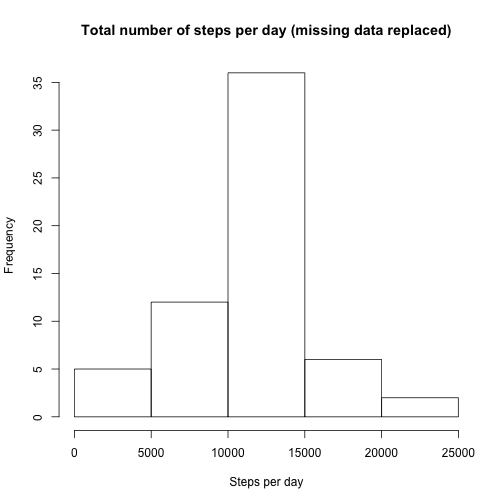
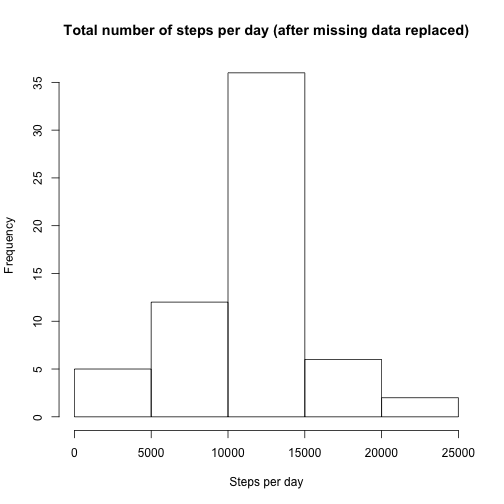
Final run of knitr to create generated files

Changed region(s): [[0.119, 0.0298, 0.9226, 0.0893]]

diff --git a/PA1_template.html b/PA1_template.html
@@ -238,9 +238,9 @@ head(df)
 </ol>
 </blockquote>
 
-<p>Transform the date column to a proper Date data type.</p>
+<pre><code class="r"># Transform the date column to a proper Date data type.
 
-<pre><code class="r">df$date &lt;- as.Date(df$date, format = &quot;%Y-%m-%d&quot;)
+df$date &lt;- as.Date(df$date, format = &quot;%Y-%m-%d&quot;)
 
 # aggregate the total steps per day
 steps_per_day &lt;- aggregate(df$steps, by = list(df$date), sum)
@@ -304,7 +304,7 @@ head(mean_steps)
 </ol>
 </blockquote>
 
-<p><em>Histrogram of the total number of steps taken each day</em></p>
+<p><em>Histogram of the total number of steps taken each day</em></p>
 
 <pre><code class="r">hist(steps_per_day$steps, main = &quot;Total number of steps per day&quot;, xlab = &quot;Steps per day&quot;)
 </code></pre>
@@ -336,7 +336,7 @@ mean_median
 </ol>
 </blockquote>
 
-<p><em>Time series plot of the 5-minute intervals and the average number of steps taken, averaged against all days.</em></p>
+<p><em>Time series plot of the 5-minute intervals and the average number of steps taken, averaged across all days.</em></p>
 
 <pre><code class="r">plot(mean_steps$interval, mean_steps$mean_steps, type = &quot;n&quot;,
      main = &quot;Average steps taken per 5-minute interval&quot;,
@@ -368,7 +368,7 @@ lines(mean_steps$interval, mean_steps$mean_steps, type = &quot;l&quot;)
 </ol>
 </blockquote>
 
-<p><em>The total number of missing values in the dataset:</em></p>
+<p><em>The total number of rows with missing values in the dataset:</em></p>
 
 <pre><code class="r">sum(is.na(df$steps))
 </code></pre>
@@ -382,10 +382,11 @@ lines(mean_steps$interval, mean_steps$mean_steps, type = &quot;l&quot;)
 </ol>
 </blockquote>
 
-<p><em>Using the mean for the interval, fill in the missing values.</em></p>
+<p><em>We will fill in the missing values using the mean for the interval.</em></p>
 
 <pre><code class="r"># merge the original dataset with the mean steps per interval set
 fixed_data &lt;- merge(df, mean_steps, by = &quot;interval&quot;, sort = FALSE)
+
 # now plug in the mean_steps value for the missing NA values
 fixed_data$steps[is.na(fixed_data$steps)] &lt;- fixed_data$mean_steps[is.na(fixed_data$steps)]
 head(fixed_data)
@@ -469,11 +470,11 @@ names(steps_per_day_new)[2] &lt;- &quot;steps&quot;
 
 <p><em>Histrogram of the total number of steps taken each day</em></p>
 
-<pre><code class="r">hist(steps_per_day_new$steps, main = &quot;Total number of steps per day (missing data replaced)&quot;, 
+<pre><code class="r">hist(steps_per_day_new$steps, main = &quot;Total number of steps per day (after missing data replaced)&quot;, 
      xlab = &quot;Steps per day&quot;)
 </code></pre>
 
[2 lines of base64/hex data omitted]
 
 <p>Comparing the fixed data set with the old data set.</p>
 
@@ -517,8 +518,8 @@ mean_median
 ##  10766  10765
 </code></pre>
 
-<pre><code class="r"># calculate percent change = (NEW-OLD)/OLD
-percent_change &lt;- (mean_median_new[&quot;median&quot;] - mean_median[&quot;median&quot;]) / mean_median[&quot;median&quot;]
+<pre><code class="r"># calculate percent change for the median = (NEW-OLD)/OLD
+percent_change_in_median &lt;- (mean_median_new[&quot;median&quot;] - mean_median[&quot;median&quot;]) / mean_median[&quot;median&quot;]
 </code></pre>
 
 <p>The Mean with replacement estimated values is equal to the original Mean taken while ignoring NA values.</p>
@@ -527,7 +528,7 @@ percent_change &lt;- (mean_median_new[&quot;median&quot;] - mean_median[&quot;me
 
 <p>The percent change in the Median when using NA replacement is:</p>
 
-<pre><code class="r">percent_change
+<pre><code class="r">percent_change_in_median
 </code></pre>
 
 <pre><code>##     median 

diff --git a/PA1_template.md b/PA1_template.md
@@ -56,9 +56,10 @@ summary(df)
 
 > 2. Process/transform the data (if necessary) into a format suitable for your analysis
 
-Transform the date column to a proper Date data type.
 
 ```r
+# Transform the date column to a proper Date data type.
+
 df$date <- as.Date(df$date, format = "%Y-%m-%d")
 
 # aggregate the total steps per day
@@ -124,7 +125,7 @@ head(mean_steps)
 > 1. Make a histogram of the total number of steps taken each day
 > 
 
-_Histrogram of the total number of steps taken each day_
+_Histogram of the total number of steps taken each day_
 
 ```r
 hist(steps_per_day$steps, main = "Total number of steps per day", xlab = "Steps per day")
@@ -152,7 +153,7 @@ mean_median
 > 1. Make a time series plot (i.e. type = "l") of the 5-minute interval (x-axis) and the average number of steps taken, averaged across all days (y-axis)
 >
 
-_Time series plot of the 5-minute intervals and the average number of steps taken, averaged against all days._
+_Time series plot of the 5-minute intervals and the average number of steps taken, averaged across all days._
 
 ```r
 plot(mean_steps$interval, mean_steps$mean_steps, type = "n",
@@ -178,7 +179,7 @@ mean_steps[which.max(mean_steps$mean_steps), 1]
 ## Imputing missing values
 > 1. Calculate and report the total number of missing values in the dataset (i.e. the total number of rows with NAs)
 
-_The total number of missing values in the dataset:_
+_The total number of rows with missing values in the dataset:_
 
 ```r
 sum(is.na(df$steps))
@@ -190,11 +191,12 @@ sum(is.na(df$steps))
 
 > 2. Devise a strategy for filling in all of the missing values in the dataset. The strategy does not need to be sophisticated. For example, you could use the mean/median for that day, or the mean for that 5-minute interval, etc.
 
-_Using the mean for the interval, fill in the missing values._
+_We will fill in the missing values using the mean for the interval._
 
 ```r
 # merge the original dataset with the mean steps per interval set
 fixed_data <- merge(df, mean_steps, by = "interval", sort = FALSE)
+
 # now plug in the mean_steps value for the missing NA values
 fixed_data$steps[is.na(fixed_data$steps)] <- fixed_data$mean_steps[is.na(fixed_data$steps)]
 head(fixed_data)
@@ -281,7 +283,7 @@ _Histrogram of the total number of steps taken each day_
 
 
 ```r
-hist(steps_per_day_new$steps, main = "Total number of steps per day (missing data replaced)", 
+hist(steps_per_day_new$steps, main = "Total number of steps per day (after missing data replaced)", 
      xlab = "Steps per day")
 ```
 
@@ -337,8 +339,8 @@ mean_median
 ```
 
 ```r
-# calculate percent change = (NEW-OLD)/OLD
-percent_change <- (mean_median_new["median"] - mean_median["median"]) / mean_median["median"]
+# calculate percent change for the median = (NEW-OLD)/OLD
+percent_change_in_median <- (mean_median_new["median"] - mean_median["median"]) / mean_median["median"]
 ```
 
 The Mean with replacement estimated values is equal to the original Mean taken while ignoring NA values.
@@ -349,7 +351,7 @@ The percent change in the Median when using NA replacement is:
 
 
 ```r
-percent_change
+percent_change_in_median
 ```
 
 ```
